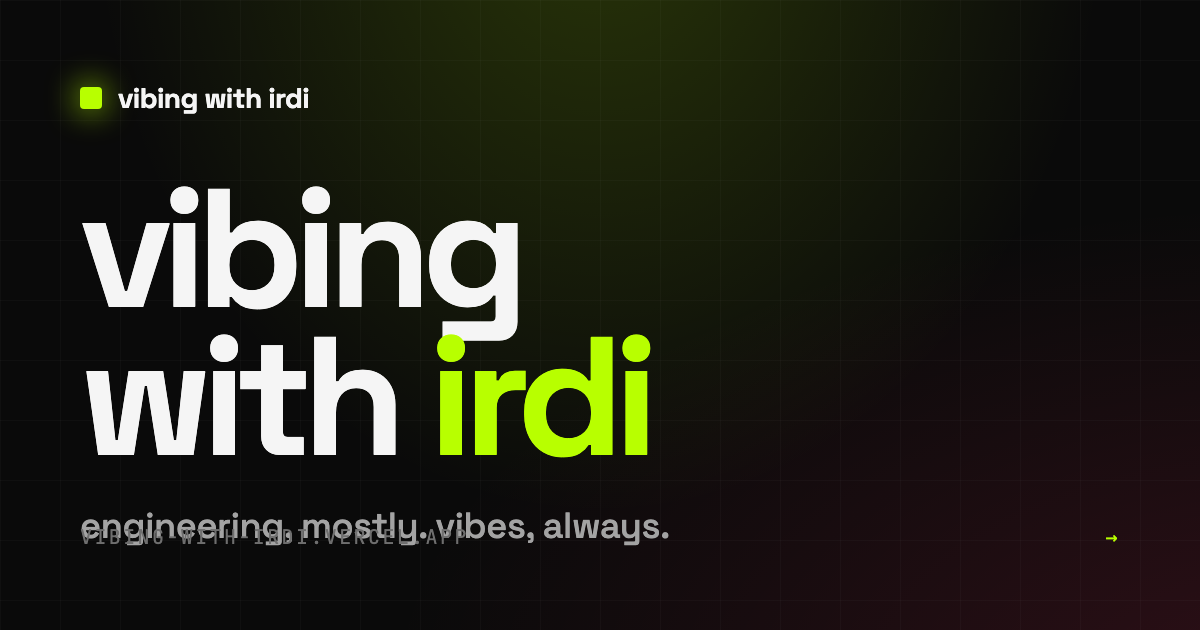
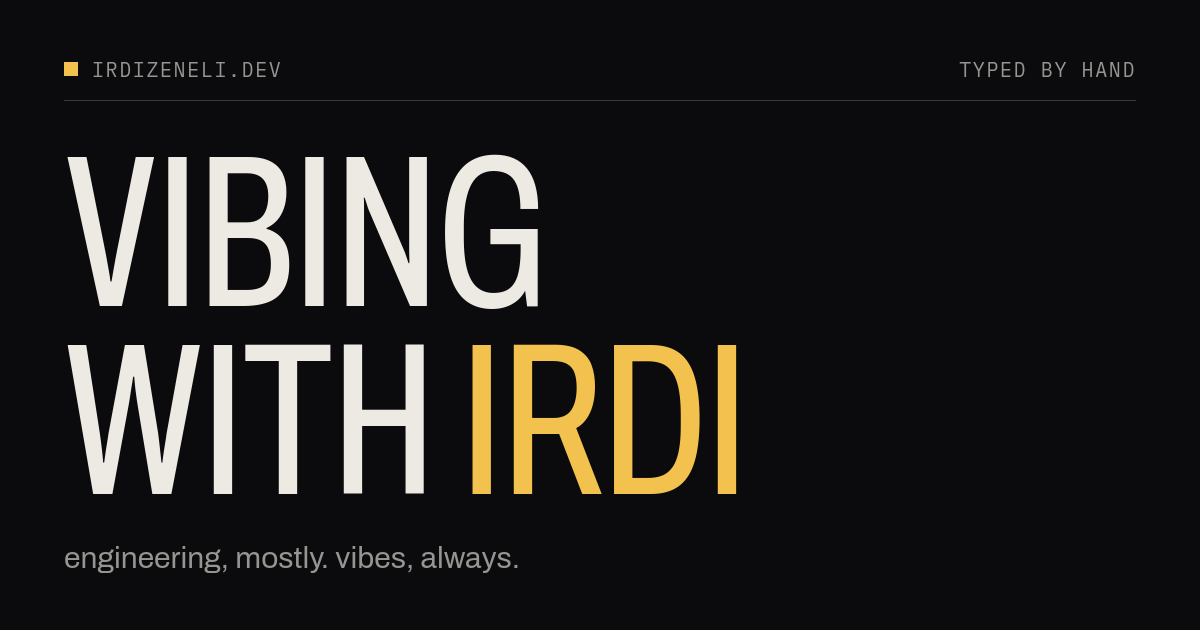
home: project panes, nav links, rss feed, 404 page, new share card
- six project panes above the posts, each linking to a public repo
- now line in the author box
- nav: projects, posts, github, linkedin
- rss.xml endpoint and feed link
- 404 page in the site design
- favicon and default share card in the new colours

diff --git a/src/styles/global.css b/src/styles/global.css
@@ -64,7 +64,7 @@ a { color: inherit; text-decoration: none; }
   letter-spacing: 0.01em;
 }
 .brand-dot { width: 8px; height: 8px; background: var(--accent); }
-.nav-links { display: flex; gap: 20px; }
+.nav-links { display: flex; flex-wrap: wrap; justify-content: flex-end; gap: 6px 20px; }
 .nav-links a {
   font-family: var(--mono);
   font-size: 12px;
@@ -116,6 +116,8 @@ a { color: inherit; text-decoration: none; }
   display: block;
   filter: grayscale(1) contrast(1.05);
   border-right: 1px solid var(--line);
+  border-bottom: 1px solid var(--line);
+  align-self: start;
 }
 .about-content { align-self: center; padding: 16px 20px; font-size: 17px; color: var(--dim); min-width: 0; }
 .about-content strong {
@@ -129,6 +131,20 @@ a { color: inherit; text-decoration: none; }
   margin-bottom: 8px;
 }
 .about-content p + p { margin-top: 8px; }
+.about-content .now {
+  margin-top: 12px;
+  padding-top: 10px;
+  border-top: 1px solid var(--line);
+  font-size: 15px;
+}
+.about-content .now span {
+  font-family: var(--mono);
+  font-size: 11px;
+  letter-spacing: 0.1em;
+  text-transform: uppercase;
+  color: var(--accent);
+  margin-right: 8px;
+}
 
 /* home: post list */
 .posts h2 {
@@ -192,6 +208,77 @@ a { color: inherit; text-decoration: none; }
   border: 1px solid var(--line);
   padding: 1px 6px;
 }
+
+/* home: project panes */
+.projects { margin-bottom: 56px; }
+.projects h2 {
+  font-family: var(--mono);
+  font-weight: 400;
+  font-size: 12px;
+  letter-spacing: 0.1em;
+  text-transform: uppercase;
+  color: var(--dim);
+  padding-bottom: 8px;
+}
+.pane-grid {
+  display: grid;
+  grid-template-columns: repeat(2, minmax(0, 1fr));
+  border-top: 1px solid var(--line);
+  border-left: 1px solid var(--line);
+}
+.pane {
+  display: flex;
+  flex-direction: column;
+  min-height: 190px;
+  padding: 12px 14px;
+  border-right: 1px solid var(--line);
+  border-bottom: 1px solid var(--line);
+  color: var(--fg);
+}
+.pane:hover { background: var(--panel); }
+.pane-kind {
+  font-family: var(--mono);
+  font-size: 11px;
+  letter-spacing: 0.1em;
+  text-transform: uppercase;
+  color: var(--dim);
+}
+.pane h3 {
+  margin-top: 10px;
+  font-stretch: 68%;
+  font-weight: 400;
+  text-transform: uppercase;
+  font-size: clamp(28px, 4.6vw, 38px);
+  line-height: 0.98;
+}
+.pane:hover h3 { color: var(--accent); }
+.pane p { margin-top: 8px; color: var(--dim); font-size: 15.5px; line-height: 1.45; }
+.pane-foot {
+  margin-top: auto;
+  padding-top: 14px;
+  display: flex;
+  justify-content: space-between;
+  gap: 10px;
+  font-family: var(--mono);
+  font-size: 11px;
+  letter-spacing: 0.08em;
+  text-transform: uppercase;
+  color: var(--dim);
+}
+.pane-go::after { content: "\00a0\2192"; }
+.pane:hover .pane-go { color: var(--fg); }
+
+/* 404 */
+.lost { padding: 24px 0 8px; }
+.lost h1 {
+  font-stretch: 62%;
+  font-weight: 400;
+  font-size: clamp(96px, 26vw, 220px);
+  line-height: 0.85;
+  letter-spacing: -0.01em;
+}
+.lost p { margin-top: 16px; color: var(--dim); max-width: 40ch; }
+.lost a { border-bottom: 1px solid var(--accent); color: var(--fg); }
 
 /* post page */
 .back {
@@ -338,12 +425,15 @@ a { color: inherit; text-decoration: none; }
 /* mobile */
 @media (max-width: 640px) {
   .shell { padding: 16px 16px 72px; }
-  .nav { margin-bottom: 48px; }
+  .nav { margin-bottom: 48px; flex-direction: column; align-items: flex-start; gap: 8px; }
+  .nav-links { justify-content: flex-start; gap: 4px 16px; }
   .hero { margin-bottom: 40px; }
   .about-card { grid-template-columns: 116px minmax(0, 1fr); }
   .about-photo { align-self: start; border-bottom: 1px solid var(--line); }
   .about-content { padding: 12px 14px; font-size: 15.5px; }
   .about-content strong { font-size: 22px; }
+  .pane-grid { grid-template-columns: minmax(0, 1fr); }
+  .pane { min-height: 0; }
   .post-card { grid-template-columns: minmax(0, 1fr); }
   .post-card .meta { grid-column: 1; grid-row: auto; border-right: 0; border-bottom: 1px solid var(--line); padding: 6px 12px; }
   .post-card h3, .post-card .excerpt, .post-card .tags { grid-column: 1; padding-left: 12px; padding-right: 12px; }

diff --git a/scripts/og-default.html b/scripts/og-default.html
@@ -2,93 +2,22 @@
 <html>
 <head>
 <meta charset="utf-8" />
+<link rel="stylesheet" href="https://fonts.googleapis.com/css2?family=Archivo:wdth,wght@62..125,300..700&family=IBM+Plex+Mono:wght@400;500&display=swap" />
 <style>
-  @import url('https://fonts.googleapis.com/css2?family=JetBrains+Mono:wght@400;500&family=Space+Grotesk:wght@500;700&display=swap');
   * { margin: 0; padding: 0; box-sizing: border-box; }
   html, body { width: 1200px; height: 630px; overflow: hidden; }
-  body {
-    font-family: 'Space Grotesk', sans-serif;
-    color: #f5f5f5;
-    background:
-      radial-gradient(ellipse at 50% -20%, rgba(184, 255, 0, 0.18), transparent 60%),
-      radial-gradient(ellipse at 110% 110%, rgba(255, 46, 99, 0.15), transparent 50%),
-      #0a0a0a;
-    padding: 80px;
-    position: relative;
-  }
-  .grid {
-    position: absolute;
-    inset: 0;
-    background-image:
-      linear-gradient(rgba(255,255,255,0.025) 1px, transparent 1px),
-      linear-gradient(90deg, rgba(255,255,255,0.025) 1px, transparent 1px);
-    background-size: 60px 60px;
-    pointer-events: none;
-  }
-  .top {
-    display: flex;
-    align-items: center;
-    gap: 16px;
-    margin-bottom: 60px;
-    position: relative;
-  }
-  .dot {
-    width: 22px; height: 22px;
-    background: #b8ff00;
-    border-radius: 4px;
-    box-shadow: 0 0 32px #b8ff00;
-  }
-  .brand {
-    font-weight: 700;
-    font-size: 28px;
-    letter-spacing: -0.02em;
-  }
-  h1 {
-    position: relative;
-    font-size: 168px;
-    font-weight: 700;
-    line-height: 0.88;
-    letter-spacing: -0.06em;
-    margin-bottom: 32px;
-  }
-  h1 .a { color: #b8ff00; }
-  p {
-    position: relative;
-    font-size: 36px;
-    font-weight: 500;
-    line-height: 1.25;
-    color: #a3a3a3;
-    letter-spacing: -0.01em;
-    max-width: 800px;
-  }
-  .bottom {
-    position: absolute;
-    bottom: 80px;
-    left: 80px;
-    right: 80px;
-    display: flex;
-    justify-content: space-between;
-    align-items: center;
-    font-family: 'JetBrains Mono', monospace;
-    font-size: 20px;
-    color: #6e6e6e;
-    text-transform: uppercase;
-    letter-spacing: 0.12em;
-  }
-  .bottom .arrow { color: #b8ff00; }
+  body { background: #0b0b0d; color: #edeae3; font-family: "Archivo", "Helvetica Neue", Arial, sans-serif; padding: 56px 64px; display: flex; flex-direction: column; }
+  .top { display: flex; align-items: center; justify-content: space-between; padding-bottom: 18px; border-bottom: 1px solid rgba(237, 234, 227, 0.2); font-family: "IBM Plex Mono", monospace; font-size: 20px; letter-spacing: 0.08em; text-transform: uppercase; color: rgba(237, 234, 227, 0.62); }
+  .brand { display: flex; align-items: center; gap: 14px; }
+  .dot { width: 14px; height: 14px; background: #f2c14e; }
+  h1 { margin-top: auto; font-stretch: 62%; font-weight: 400; text-transform: uppercase; font-size: 216px; line-height: 0.87; letter-spacing: -0.01em; }
+  h1 span { color: #f2c14e; }
+  p { margin-top: 26px; font-size: 30px; color: rgba(237, 234, 227, 0.62); }
 </style>
 </head>
 <body>
-  <div class="grid"></div>
-  <div class="top">
-    <div class="dot"></div>
-    <div class="brand">vibing with irdi</div>
-  </div>
-  <h1>vibing<br />with <span class="a">irdi</span></h1>
+  <div class="top"><div class="brand"><span class="dot"></span>irdizeneli.dev</div><div>typed by hand</div></div>
+  <h1>vibing<br />with <span>irdi</span></h1>
   <p>engineering, mostly. vibes, always.</p>
-  <div class="bottom">
-    <span>vibing-with-irdi.vercel.app</span>
-    <span class="arrow">→</span>
-  </div>
 </body>
 </html>

diff --git a/src/pages/rss.xml.ts b/src/pages/rss.xml.ts
@@ -1,0 +1,38 @@
+import type { APIRoute } from 'astro'
+import { getCollection } from 'astro:content'
+
+export const prerender = true
+
+const esc = (t: string) =>
+  t.replace(/&/g, '&amp;').replace(/</g, '&lt;').replace(/>/g, '&gt;').replace(/"/g, '&quot;')
+
+// Plain RSS 2.0 feed of the posts, newest first. Built by hand to avoid a dependency.
+export const GET: APIRoute = async ({ site }) => {
+  const base = (site ?? new URL('https://irdizeneli.dev')).toString().replace(/\/$/, '')
+  const posts = (await getCollection('posts')).sort(
+    (a, b) => b.data.date.getTime() - a.data.date.getTime(),
+  )
+  const items = posts
+    .map(
+      (post) => `    <item>
+      <title>${esc(post.data.title)}</title>
+      <link>${base}/posts/${post.id}</link>
+      <guid>${base}/posts/${post.id}</guid>
+      <pubDate>${post.data.date.toUTCString()}</pubDate>
+      <description>${esc(post.data.excerpt)}</description>
+    </item>`,
+    )
+    .join('\n')
+  const xml = `<?xml version="1.0" encoding="UTF-8"?>
+<rss version="2.0">
+  <channel>
+    <title>vibing with irdi</title>
+    <link>${base}</link>
+    <description>engineering, mostly. vibes always.</description>
+    <language>en</language>
+${items}
+  </channel>
+</rss>
+`
+  return new Response(xml, { headers: { 'Content-Type': 'application/rss+xml; charset=utf-8' } })
+}
